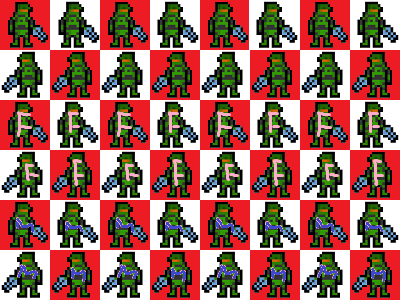
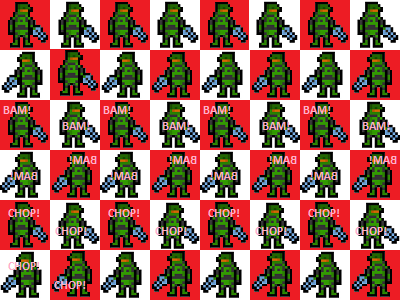
Implemented attacks and killing of units

diff --git a/definegrid.js b/definegrid.js
@@ -111,6 +111,96 @@ var animations = {
             y: 50,
             width: 50,
             height: 50
+        }],
+        attack_gun: [{
+        x: 0,
+        y: 100,
+        width: 50,
+        height: 50
+    }, {
+        x: 50,
+        y: 100,
+        width: 50,
+        height: 50
+    }, {
+        x: 100,
+        y: 100,
+        width: 50,
+        height: 50
+    },
+        {
+            x: 150,
+            y: 100,
+            width: 50,
+            height: 50
+        },
+        {
+            x: 200,
+            y: 100,
+            width: 50,
+            height: 50
+        },
+        {
+            x: 250,
+            y: 100,
+            width: 50,
+            height: 50
+        },{
+            x: 300,
+            y: 100,
+            width: 50,
+            height: 50
+        },
+        {
+            x: 350,
+            y: 100,
+            width: 50,
+            height: 50
+        }],
+        attack_axe: [{
+        x: 0,
+        y: 200,
+        width: 50,
+        height: 50
+    }, {
+        x: 50,
+        y: 200,
+        width: 50,
+        height: 50
+    }, {
+        x: 100,
+        y: 200,
+        width: 50,
+        height: 50
+    },
+        {
+            x: 150,
+            y: 200,
+            width: 50,
+            height: 50
+        },
+        {
+            x: 200,
+            y: 200,
+            width: 50,
+            height: 50
+        },
+        {
+            x: 250,
+            y: 200,
+            width: 50,
+            height: 50
+        },{
+            x: 300,
+            y: 200,
+            width: 50,
+            height: 50
+        },
+        {
+            x: 350,
+            y: 200,
+            width: 50,
+            height: 50
         }]
     };
 
@@ -122,7 +212,7 @@ var stage = new Kinetic.Stage({
 
 var shootbutton   = new Kinetic.Rect({  //Ranged attack button
     x:692,
-    y: stage.getHeight()/2-155,
+    y: stage.getHeight()/2-105,
     name: "shootbutton",
     id:   "control",
     width: 100,
@@ -134,7 +224,7 @@ var shootbutton   = new Kinetic.Rect({  //Ranged attack button
 
 var meleebutton   =      new Kinetic.Rect({   //Melee attach button
     x: 692,
-    y: stage.getHeight()/2-100,
+    y: stage.getHeight()/2-50,
     name: "meleebutton",
     id:   "control",
     width: 100,
@@ -146,7 +236,7 @@ var meleebutton   =      new Kinetic.Rect({   //Melee attach button
 
 var circle = new Kinetic.Rect({ //Used to be a circle... Generate unit button
     x:692  ,
-    y: stage.getHeight() /2-45,
+    y: stage.getHeight() /2+5,
     name: 'circ',
     id:   "control",
     width: 100,
@@ -158,7 +248,7 @@ var circle = new Kinetic.Rect({ //Used to be a circle... Generate unit button
 
 var endturnbutton = new Kinetic.Rect({    //End turn button
     x:692,
-    y: stage.getHeight() /2+10,
+    y: stage.getHeight() /2+60,
     name: "endturn",
     id:   "control",
     width: 100,
@@ -206,7 +296,7 @@ boardLayer.on('click tap', function(e) {
 	if(shape.getName() == "hex"){
        console.log("Clicked on hex:"+shape.getId());
 
-       if (current_soldier != undefined) { //Time to move soldier
+       if (current_soldier != undefined && icon != undefined && icon.getImage() == moveIconImage) { //Time to move soldier if we're in Move mode
  
        var distance = calculateDistance(current_soldier, shape);
 	   console.log("Distance for requested movement calculated as:"+distance);
@@ -234,13 +324,10 @@ boardLayer.on('click tap', function(e) {
 	
 	if(shape.getName() == "circ"){
     console.log("Generate unit clicked");
+    highlightButtonOnClick(shape)
 
     var randomHex;
-	
-	function getRandom(min, max) {
-    return Math.floor(Math.random() * (max - min + 1)) + min;
-}
-	
+
     //Loop to make sure random combination exists.
     while (randomHex == undefined) {
         randomHex = boardLayer.get("#"+getRandom(-4,9)+","+getRandom(0,9))[0];
@@ -267,6 +354,7 @@ boardLayer.on('click tap', function(e) {
         //Set unit affinity (1 or 0)
         soldier.affinity = currentTurn;
 		soldier.AP = 3;
+        soldier.HP = 100;
 
 		    soldier.name = getName(5,10);    //name and setName are different things!
             soldier.setName("sol");          //name and setName are different things!
@@ -282,12 +370,14 @@ boardLayer.on('click tap', function(e) {
 			soldier.start();
 	}
 
-	if(shape.getName() == "sol"){	
+	if(shape.getName() == "sol"){
+        highlightButtonOnClick(shape)
 		
 		document.getElementById("name").textContent = shape.name;
 		document.getElementById("ap").textContent = shape.AP;
+        document.getElementById("hp").textContent = shape.HP;
 
-        if (shape.affinity == currentTurn)      {	
+        if (shape.affinity == currentTurn)      {	   //You clicked on a friendly
         
 		console.log("Selected: "+shape.name);
 		current_soldier = shape; //Unit is now selected;	
@@ -295,24 +385,58 @@ boardLayer.on('click tap', function(e) {
 		console.log("Drawing radius for possible unit movement") ;
         removeRadius("tan");
         removeRadius("crimson");
+
+         if (current_soldier.AP != 0) {
         drawRadius(shape.currentHexId,current_soldier.AP,"tan");
         console.log("Adding action icon to unit");
-
         setIcon(current_soldier,moveIconImage);
 
         boardLayer.draw();
+         }   else {
+             console.log("Out of AP for this turn");
+         }
+
            }
-        else {
-           console.log("Unable to select "+shape.name+" : Unit belongs to opposing side")
+        else { //You clicked on an enemy
+
+           if (icon != undefined && icon.getImage() == gunIconImage && calculateDistance(current_soldier, shape)<3) {
+               console.log("Preparing to fire at enemy");
+               attack(current_soldier,shape,"attack_gun",25);
+               current_soldier.AP = 0;
+               current_soldier = undefined;
+               removeRadius("crimson");
+               icon.hide();
+               icon = undefined;
+           }
+
+            if (icon != undefined && icon.getImage() == axeIconImage && calculateDistance(current_soldier, shape)<2) {
+                console.log("Preparing to melee enemy");
+                attack(current_soldier,shape,"attack_axe",50);
+                current_soldier.AP = 0;
+                current_soldier = undefined;
+                removeRadius("crimson");
+                icon.hide();
+                icon = undefined;
+            }
+
+            if (icon == undefined || icon.getImage() == moveIconImage) {
+                    console.log("Unable to select "+shape.name+" : Unit belongs to opposing side")
+            }
+
+
         }
 		
 	}
 
     if(shape.getName() == "endturn"){
+    highlightButtonOnClick(shape);
+
     removeRadius("tan");
     removeRadius("crimson");
+    if (icon != undefined) {
     icon.hide();      //Remove icon
     icon = undefined;
+    }
 
     //Reset AP for all units on map
      var units = boardLayer.get('.sol');
@@ -332,20 +456,26 @@ boardLayer.on('click tap', function(e) {
 
     if(shape.getName() == "shootbutton") {
         console.log("Ranged attack button engaged");
+        highlightButtonOnClick(shape)
 
         if (current_soldier == undefined) {
             console.log("You have to select a unit before you can use ranged attack");
         } else {
         removeRadius("tan");
-        drawRadius(current_soldier.currentHexId,2,"crimson");  //Units can only attack 2 hexes away: hence AP=2
 
+        if ((current_soldier.AP != 0)) {
+        drawRadius(current_soldier.currentHexId,2,"crimson");  //Units can only attack 2 hexes away: hence AP=2
         setIcon(current_soldier,gunIconImage);
+        } else {
+            console.log("Out of AP - try next turn")
+        }
         //boardLayer.draw();
         }
     }
 
     if(shape.getName() == "meleebutton")  {
         console.log("Melee button engaged");
+        highlightButtonOnClick(shape)
 
         if (current_soldier == undefined) {
             console.log("You have to select a unit before you can use melee attack");
@@ -353,27 +483,71 @@ boardLayer.on('click tap', function(e) {
             removeRadius("tan");
             removeRadius("crimson");
 
-            drawRadius(current_soldier.currentHexId,1,"crimson");  //Units can only melee 1 hexes away: hence AP=1
-            setIcon(current_soldier,axeIconImage);
-            //boardLayer.draw();
+            if ((current_soldier.AP != 0)) {
+                drawRadius(current_soldier.currentHexId,1,"crimson");  //Units can only melee 1 hexes away: hence AP=1
+                setIcon(current_soldier,axeIconImage);
+                //boardLayer.draw();
+            } else {
+                console.log("Out of AP - try next turn")
+            }
         }
     }
 
 });
 
+function attack(current_soldier,target,animation,damage) {
+boardLayer.setListening(false);
+console.log("Starting attack animation for "+current_soldier.name);
+current_soldier.setAnimation(animation);
+current_soldier.start();
+
+var dmgTaken = damage+getRandom(0,10);      //Damage is slightly random
+target.HP = target.HP-dmgTaken;
+console.log("Target "+target.name + " has taken "+dmgTaken + " damage");
+console.log(target.name + " has "+target.HP + " HP left");
+
+/*if (animation == "attack_gun") {
+document.getElementById('gunaudio').play();
+}
+
+if (animation = "attack_axe") {
+    document.getElementById('axeaudio').play();
+}*/
+
+setTimeout(function(){
+    current_soldier.stop();
+    current_soldier.setAnimation('idle');
+    boardLayer.draw();},1000);
+    boardLayer.setListening(true);
+
+if (target.HP <1) {
+    console.log(target.name + " has been killed.");
+    target.remove();
+}
+}
+function getRandom(min, max) {
+    return Math.floor(Math.random() * (max - min + 1)) + min;
+}
 function calculateDistance(target,destination) {  
 	  var x1 = parseInt(target.currentHexId.split(",")[0]) ;
       var y1 = parseInt(target.currentHexId.split(",")[1]) ;
 	  var z1 = -x1-y1;
-	  
+
+      if(destination.getName() == "hex"){
 	  var x2 = parseInt(destination.getId().split(",")[0]) ;
       var y2 = parseInt(destination.getId().split(",")[1]) ;
-	  var z2 = -x2-y2;
+      }
+
+      if(destination.getName() == "sol"){
+        var x2 = parseInt(destination.currentHexId.split(",")[0]) ;
+        var y2 = parseInt(destination.currentHexId.split(",")[1]) ;
+      }
+      var z2 = -x2-y2;
 
 	  return Math.max(Math.abs((x2-x1)),Math.abs((y2-y1)),Math.abs((z2-z1)));
 }
 function createUnitAnimation(shape,current_soldier) {
-  console.log("Defining animation for "+current_soldier.name);
+console.log("Defining animation for "+current_soldier.name);
       
            console.log(current_soldier.name+" current location within grid set as "+shape.getId());
 
@@ -504,6 +678,15 @@ console.log("Generating icon for selected unit");
       //  boardLayer.add(icon);
         boardLayer.draw();
     }
+}
+function highlightButtonOnClick(shape) {
+        console.log("Highlight clicked button");
+        var previous = shape.getFill();
+        shape.setFill("DarkGray");
+        shape.setStroke("black");
+        setTimeout(function(){
+            shape.setStroke("grey");
+            shape.setFill(previous)},125    );
 }
 
 boardLayer.add(shootbutton);

diff --git a/sample.html b/sample.html
@@ -21,11 +21,17 @@
     </div>
 		
     <div id="unitstats" style="position:absolute">
-    <div class="k-block"><div class="k-header"><b class="label" style="padding:22px">Name</b></div><b id="name"></b></div>
-    <div class="k-block"><div class="k-header"><b class="label" style="padding:22px">AP</b></div><b id="ap"></b></div>
+    <div class="k-block" ><div class="k-header"><b class="label" style="padding:22px">Name</b></div><b id="name"></b></div>
+    <div class="k-block" style="float:left"><div class="k-header"><b class="label" style="padding:22px">AP</b></div><b id="ap"></b></div>
+    <div class="k-block" style="float:right"><div class="k-header" style="float:right"><b class="label" style="padding:22px">HP</b></div><b id="hp"></b></div>
     </div> 
 	
     <script src="definegrid.js"></script>
+
+    </div>
+
+  <!--  <audio src="gun.mp3" id="gunaudio" type="audio/mpeg">
+    <audio src="axe.mp3" id="axeaudio" type="audio/mpeg">        -->
 	
 </body>
 </html>
